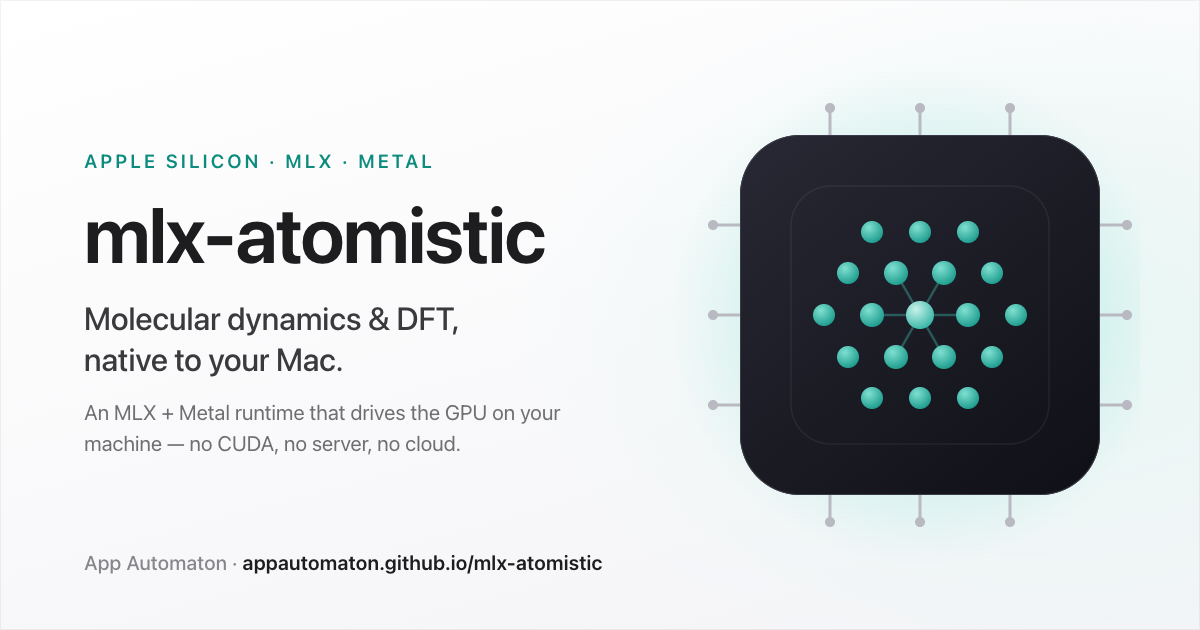
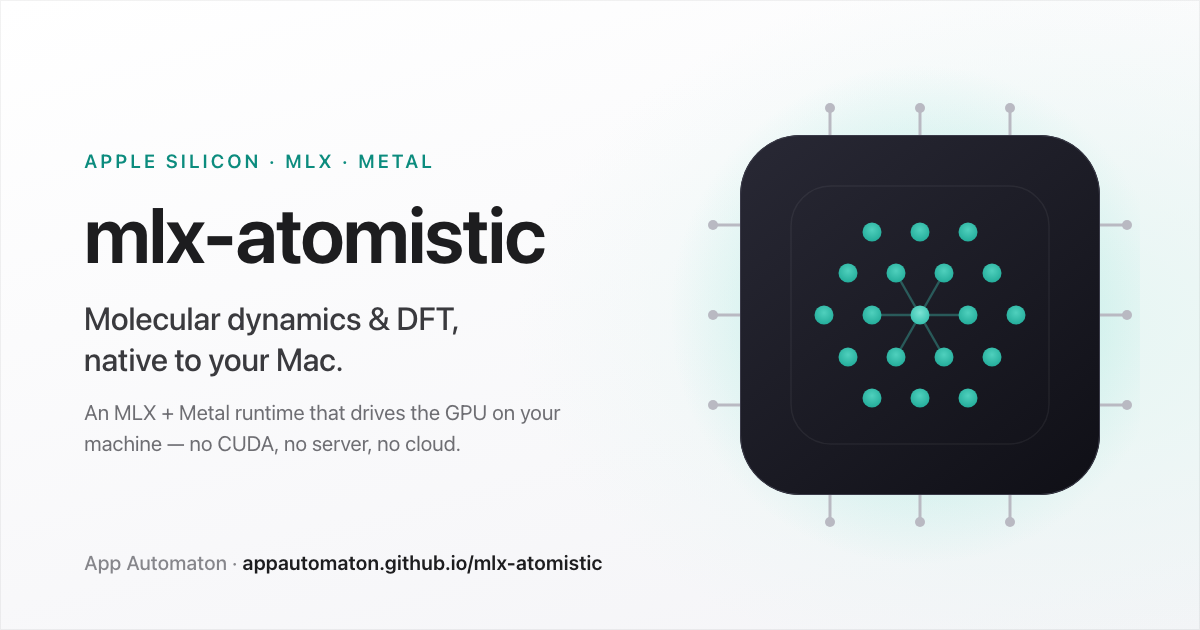
feat(site): flatten the crystallite — one design language for the whole die
The frame had evolved into flat precision (flat die, hairline strokes,
line-art traces, ring vias) while the atoms were still skeuomorphic 3D
spheres with specular highlights and drop shadows — two rendering
languages in one composition, and at r=8-10.5 against a 34-unit bond the
balls read heavy (~55% of spacing vs the ~40% of classic ball-and-stick
diagrams).

- Atoms are now flat discs: one soft top-light gradient (no specular
  dot), hairline rim instead of drop shadow, per-theme colors.
- Uniform r=7 (~41% of bond length). The 10.5/9/8 hierarchy was fake
  depth, and vacancy migration was already shuffling it; one species,
  one radius is also the physically honest choice.
- Halos tightened to r+6 to match.
- OG card gets the same treatment (flat gradients, uniform 9.5 radii)
  and og.png is regenerated, so hero and social card stay one brand.

Physics untouched; sim verified running (Crystalline) after the change.

Changed region(s): [[0.6783, 0.4825, 0.8633, 0.6635], [0.6783, 0.3317, 0.8325, 0.4524], [0.8017, 0.6032, 0.8325, 0.6333]]

diff --git a/site/og/card.html b/site/og/card.html
@@ -68,13 +68,13 @@
             <stop stop-color="#272733" />
             <stop offset="1" stop-color="#101017" />
           </linearGradient>
-          <radialGradient id="atom" cx="0.36" cy="0.3" r="0.85">
-            <stop stop-color="#7fe0d1" />
-            <stop offset="1" stop-color="#0d9082" />
+          <radialGradient id="atom" cx="0.5" cy="0.38" r="0.85">
+            <stop stop-color="#4fd0bd" />
+            <stop offset="1" stop-color="#14a08e" />
           </radialGradient>
-          <radialGradient id="atomC" cx="0.36" cy="0.3" r="0.9">
-            <stop stop-color="#c8f2ea" />
-            <stop offset="1" stop-color="#16a897" />
+          <radialGradient id="atomC" cx="0.5" cy="0.38" r="0.85">
+            <stop stop-color="#7ce4d4" />
+            <stop offset="1" stop-color="#1cb3a0" />
           </radialGradient>
           <radialGradient id="aura" cx="0.5" cy="0.5" r="0.5">
             <stop stop-color="#57d6c6" stop-opacity="0.55" />
@@ -114,19 +114,19 @@
         <!-- 19-atom hexagonal close-packed cluster -->
         <g>
           <!-- outer corners (r≈96) -->
-          <circle cx="396" cy="315" r="11" fill="url(#atom)" /><circle cx="348" cy="398" r="11" fill="url(#atom)" />
-          <circle cx="252" cy="398" r="11" fill="url(#atom)" /><circle cx="204" cy="315" r="11" fill="url(#atom)" />
-          <circle cx="252" cy="232" r="11" fill="url(#atom)" /><circle cx="348" cy="232" r="11" fill="url(#atom)" />
+          <circle cx="396" cy="315" r="9.5" fill="url(#atom)" /><circle cx="348" cy="398" r="9.5" fill="url(#atom)" />
+          <circle cx="252" cy="398" r="9.5" fill="url(#atom)" /><circle cx="204" cy="315" r="9.5" fill="url(#atom)" />
+          <circle cx="252" cy="232" r="9.5" fill="url(#atom)" /><circle cx="348" cy="232" r="9.5" fill="url(#atom)" />
           <!-- outer edges (r≈83) -->
-          <circle cx="372" cy="357" r="11" fill="url(#atom)" /><circle cx="300" cy="398" r="11" fill="url(#atom)" />
-          <circle cx="228" cy="357" r="11" fill="url(#atom)" /><circle cx="228" cy="273" r="11" fill="url(#atom)" />
-          <circle cx="300" cy="232" r="11" fill="url(#atom)" /><circle cx="372" cy="273" r="11" fill="url(#atom)" />
+          <circle cx="372" cy="357" r="9.5" fill="url(#atom)" /><circle cx="300" cy="398" r="9.5" fill="url(#atom)" />
+          <circle cx="228" cy="357" r="9.5" fill="url(#atom)" /><circle cx="228" cy="273" r="9.5" fill="url(#atom)" />
+          <circle cx="300" cy="232" r="9.5" fill="url(#atom)" /><circle cx="372" cy="273" r="9.5" fill="url(#atom)" />
           <!-- inner ring (r≈48) -->
-          <circle cx="348" cy="315" r="12" fill="url(#atom)" /><circle cx="324" cy="357" r="12" fill="url(#atom)" />
-          <circle cx="276" cy="357" r="12" fill="url(#atom)" /><circle cx="252" cy="315" r="12" fill="url(#atom)" />
-          <circle cx="276" cy="273" r="12" fill="url(#atom)" /><circle cx="324" cy="273" r="12" fill="url(#atom)" />
+          <circle cx="348" cy="315" r="9.5" fill="url(#atom)" /><circle cx="324" cy="357" r="9.5" fill="url(#atom)" />
+          <circle cx="276" cy="357" r="9.5" fill="url(#atom)" /><circle cx="252" cy="315" r="9.5" fill="url(#atom)" />
+          <circle cx="276" cy="273" r="9.5" fill="url(#atom)" /><circle cx="324" cy="273" r="9.5" fill="url(#atom)" />
           <!-- center -->
-          <circle cx="300" cy="315" r="14" fill="url(#atomC)" />
+          <circle cx="300" cy="315" r="9.5" fill="url(#atomC)" />
         </g>
       </svg>
     </div>